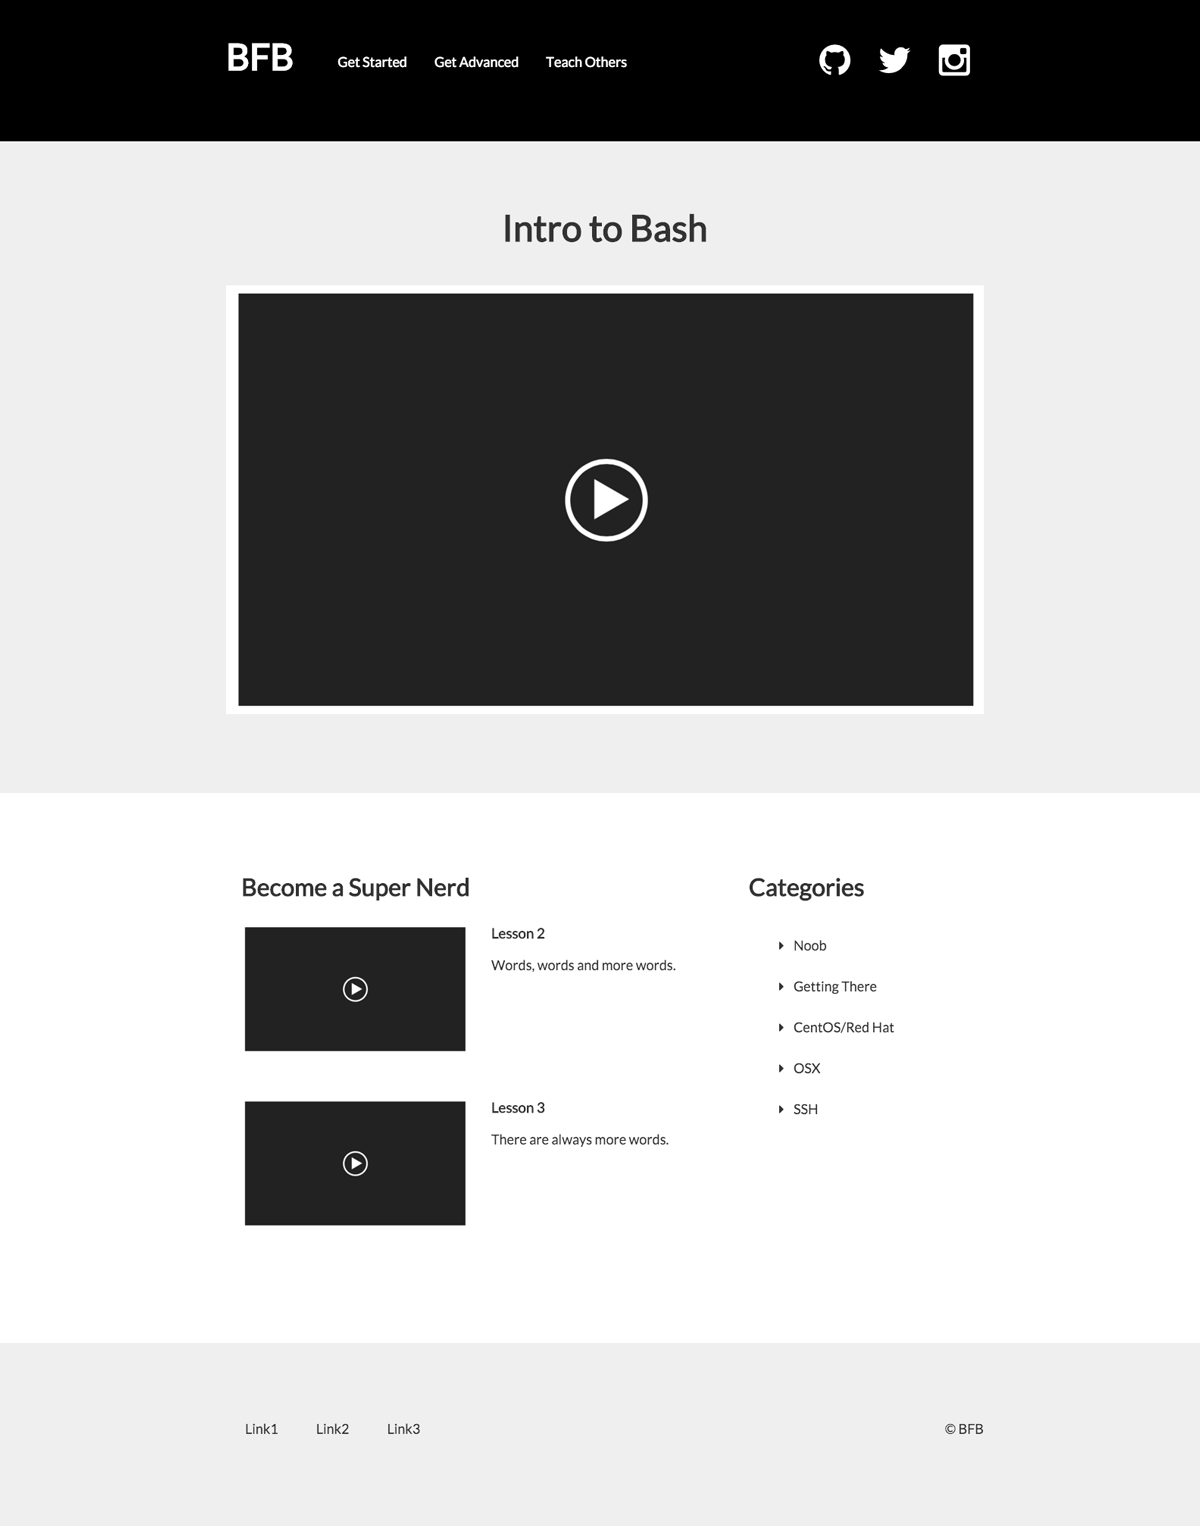
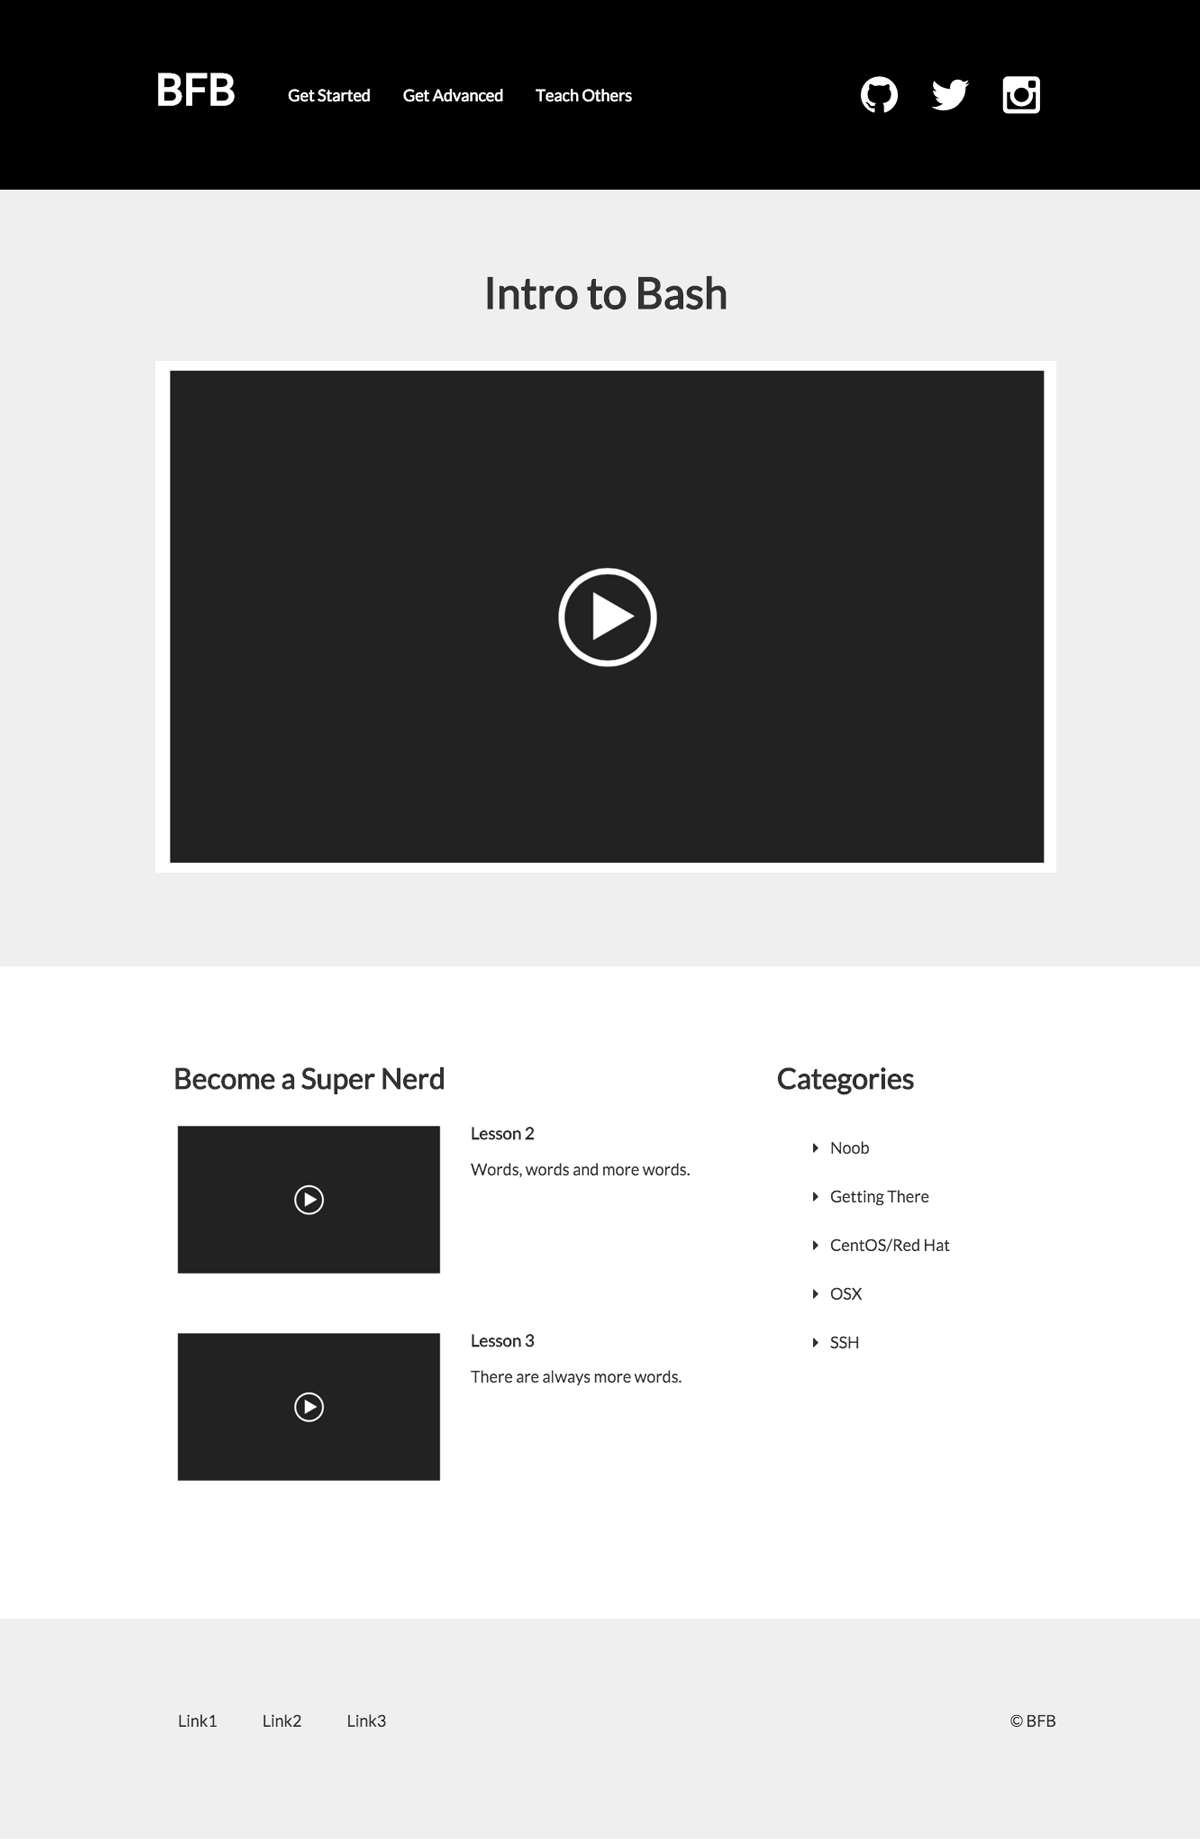
fix nav padding

diff --git a/css/style.css b/css/style.css
@@ -49,7 +49,7 @@ a:hover {
   color: #000; }
 
 #nav-outer {
-  padding-top: 1%;
+  padding-top: 1.75%;
   padding-bottom: 1%;
   background: #000;
   color: #FFF; }

diff --git a/css/style.scss b/css/style.scss
@@ -73,7 +73,7 @@ a:hover {
 
 //Nav Bar
 #nav-outer {
-  padding-top: 1%;
+  padding-top: 1.75%;
   padding-bottom: 1%;
   background: #000;
   color: #FFF;
